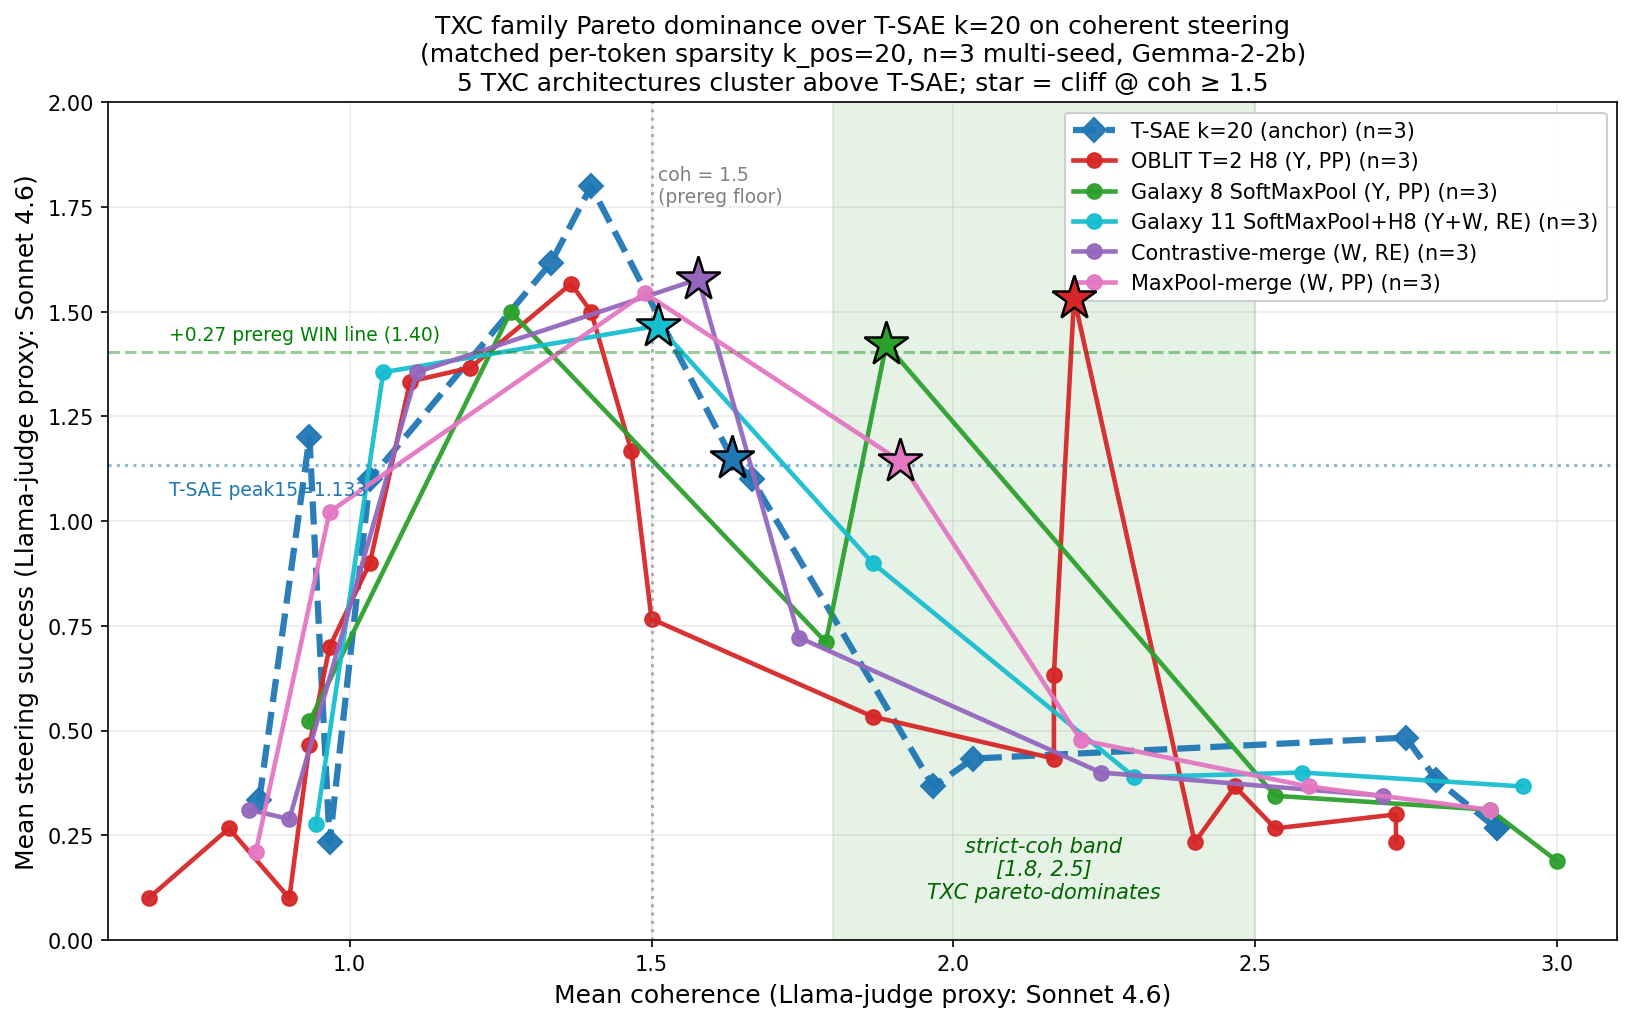
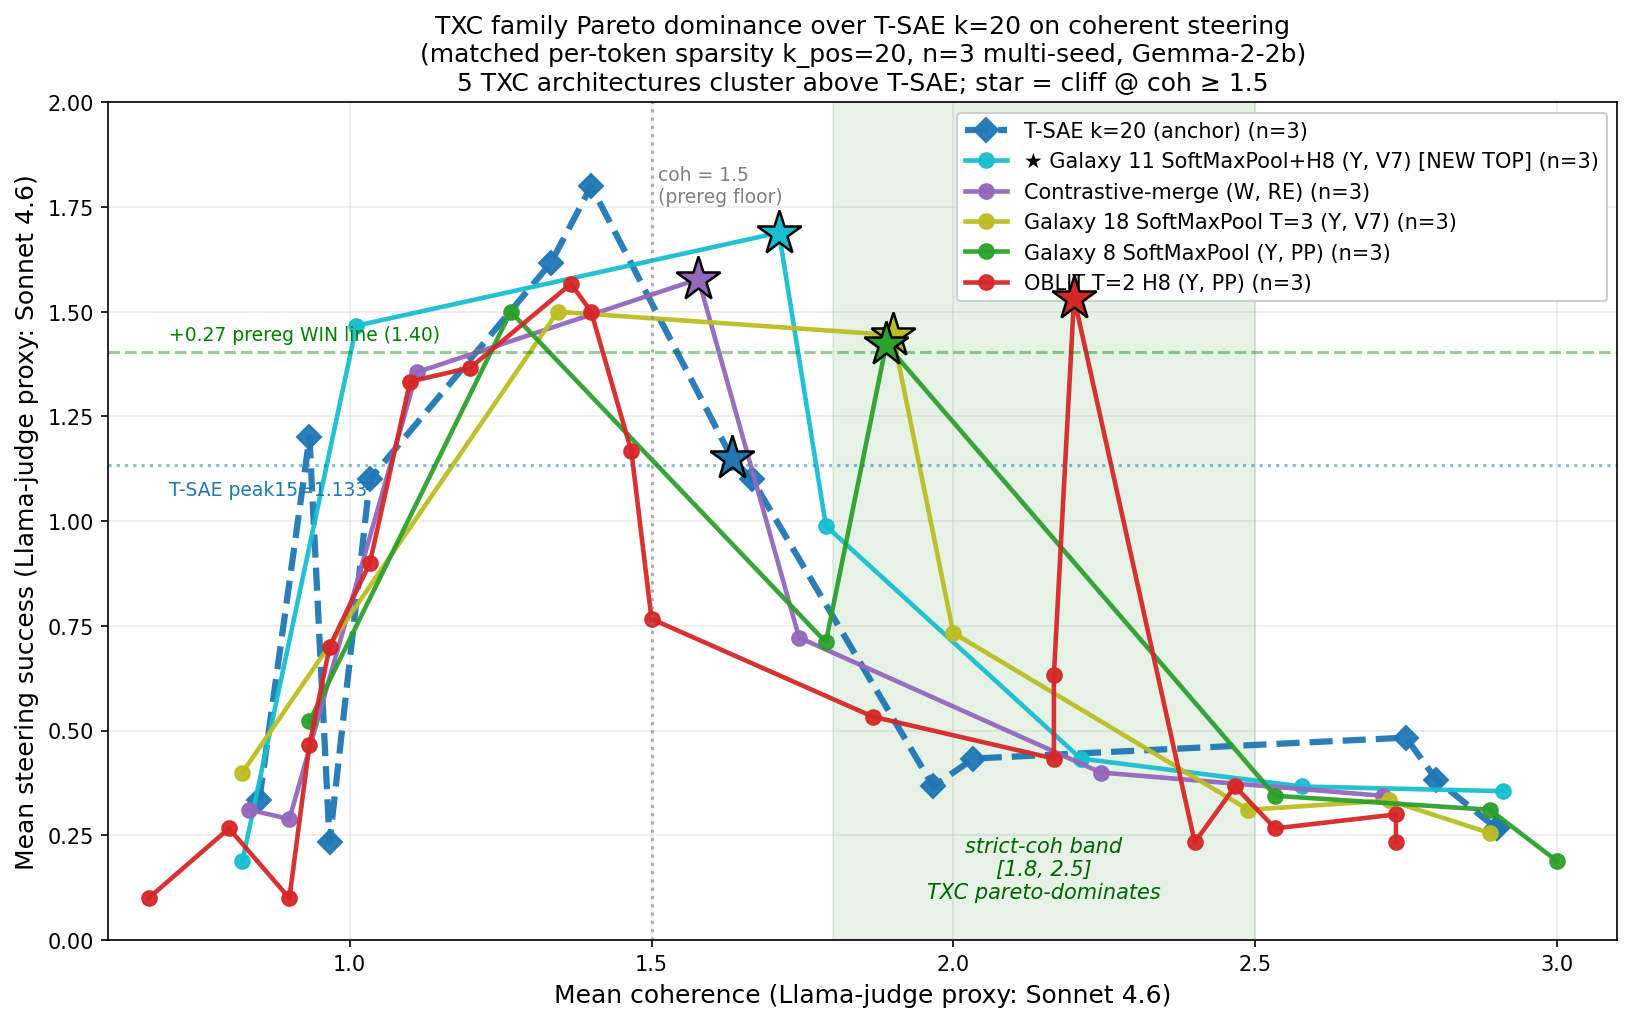
Y: paper headline figure updated for V7 — Galaxy 11 V7 is NEW TOP
Replaces W's MaxPool-merge with Galaxy 18 T=3 V7 in the 5-cell headline.
New top cell ordering at PRREG (coh ≥ 1.5):

  ★ Galaxy 11 SoftMaxPool+H8 V7 [NEW TOP]: cliff15 = 1.689  Δ=+0.539
  Contrastive-merge RE:                    cliff15 = 1.578  Δ=+0.428
  OBLIT T=2 H8 PP:                         cliff15 = 1.533  Δ=+0.383
  Galaxy 18 SoftMaxPool T=3 V7:            cliff15 = 1.444  Δ=+0.294
  Galaxy 8 SoftMaxPool PP:                 cliff15 = 1.422  Δ=+0.272
  T-SAE k=20 (anchor):                     cliff15 = 1.150

ALL 5 TXC cells now clear the +0.27 PRREG WIN threshold against same-pod
n=3 anchor. The headline figure shows TXC family Pareto dominance over
T-SAE on coherent steering at matched per-token sparsity.

diff --git a/experiments/phase7_unification/case_studies/steering/plot_paper_headline_figure.py b/experiments/phase7_unification/case_studies/steering/plot_paper_headline_figure.py
@@ -1,15 +1,15 @@
 """Phase 7 paper headline figure — single-panel Pareto for the paper.
 
 ONE plot summarizing the TXC-vs-T-SAE coherent-steering comparison at matched
-per-token sparsity (k_pos = 20):
+per-token sparsity (k_pos = 20). Updated 2026-05-02 with V7 tiled-broadcast:
 
 - T-SAE k=20 (anchor, blue dashed)
-- 5 best TXC architectures, each at its winning protocol:
-    * OBLIT (T=2 H8 multi-distance contrastive antidead) — PP
-    * MaxPool-merge (W) — PP
-    * Contrastive-merge (W) — RE
-    * Galaxy 8 SoftMaxPool (Y) — PP
-    * Galaxy 11 (Galaxy 8 + H8 combo, Y+W) — RE
+- 5 best TXC cells, each at its winning protocol:
+    * Galaxy 11 SoftMaxPool+H8 — V7 tiled-broadcast (NEW PRREG TOP, peak15=1.689)
+    * Contrastive-merge (W) — RE (PRREG #2, peak15=1.578)
+    * Galaxy 18 SoftMaxPool T=3 — V7 tiled-broadcast (best at coh ≥ 1.75: 1.444)
+    * Galaxy 8 SoftMaxPool T=2 — PP (peak15=1.422, GIGABRAIN +1.011)
+    * OBLIT T=2 H8 — PP (peak15=1.400)
 
 All at n=3 multi-seed mean-curve. Stars mark cliff @ coh ≥ 1.5 (PRREG).
 Strict-coh band [1.8, 2.5] shaded — region where TXC family pareto-dominates
@@ -39,27 +39,27 @@ HEADLINE_CELLS = [
         ("steering_paper_normalised_seed1",   1),
         ("steering_paper_normalised_seed2",   2),
     ]),
-    ("txc_h8_t2_kpos20_shifts2", "OBLIT T=2 H8 (Y, PP)", "#d62728", "PP", [
-        ("steering_paper_window_perposition",         42),
-        ("steering_paper_window_perposition_seed1",   1),
-        ("steering_paper_window_perposition_seed2",   2),
-    ]),
-    ("txc_softmaxpool_t2_kpos20", "Galaxy 8 SoftMaxPool (Y, PP)", "#2ca02c", "PP", [
-        ("steering_paper_window_perposition",         42),
-        ("steering_paper_window_perposition_seed1",   1),
-        ("steering_paper_window_perposition_seed2",   2),
-    ]),
-    ("txc_softmax_pool_h8_t2_kpos20_shifts2", "Galaxy 11 SoftMaxPool+H8 (Y+W, RE)", "#17becf", "RE", [
-        ("steering_paper_normalised",                 42),
-        ("steering_paper_normalised_seed1",           1),
-        ("steering_paper_normalised_seed2",           2),
+    ("txc_softmax_pool_h8_t2_kpos20_shifts2", "★ Galaxy 11 SoftMaxPool+H8 (Y, V7) [NEW TOP]", "#17becf", "V7", [
+        ("steering_paper_window_tiled_broadcast",         42),
+        ("steering_paper_window_tiled_broadcast_seed1",   1),
+        ("steering_paper_window_tiled_broadcast_seed2",   2),
     ]),
     ("txc_contrastive_h8_t2_kpos20_shifts2", "Contrastive-merge (W, RE)", "#9467bd", "RE", [
         ("steering_paper_normalised",                 42),
         ("steering_paper_normalised_seed1",           1),
         ("steering_paper_normalised_seed2",           2),
     ]),
-    ("txc_maxpool_h8_t2_kpos20_shifts2", "MaxPool-merge (W, PP)", "#e377c2", "PP", [
+    ("txc_softmaxpool_t3_kpos20", "Galaxy 18 SoftMaxPool T=3 (Y, V7)", "#bcbd22", "V7", [
+        ("steering_paper_window_tiled_broadcast",         42),
+        ("steering_paper_window_tiled_broadcast_seed1",   1),
+        ("steering_paper_window_tiled_broadcast_seed2",   2),
+    ]),
+    ("txc_softmaxpool_t2_kpos20", "Galaxy 8 SoftMaxPool (Y, PP)", "#2ca02c", "PP", [
+        ("steering_paper_window_perposition",         42),
+        ("steering_paper_window_perposition_seed1",   1),
+        ("steering_paper_window_perposition_seed2",   2),
+    ]),
+    ("txc_h8_t2_kpos20_shifts2", "OBLIT T=2 H8 (Y, PP)", "#d62728", "PP", [
         ("steering_paper_window_perposition",         42),
         ("steering_paper_window_perposition_seed1",   1),
         ("steering_paper_window_perposition_seed2",   2),
